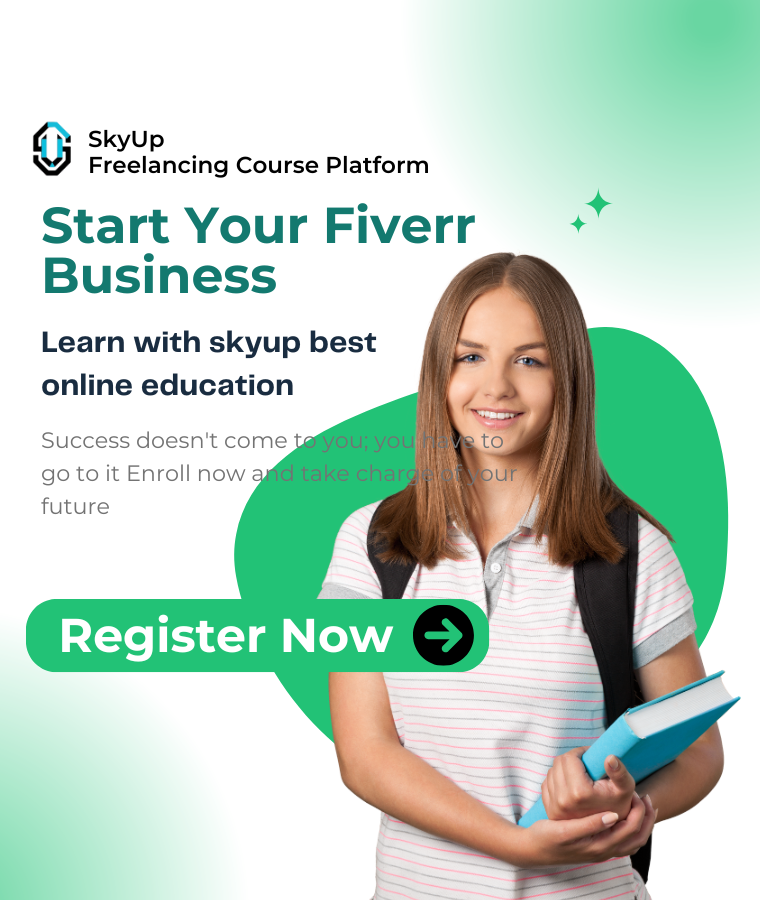
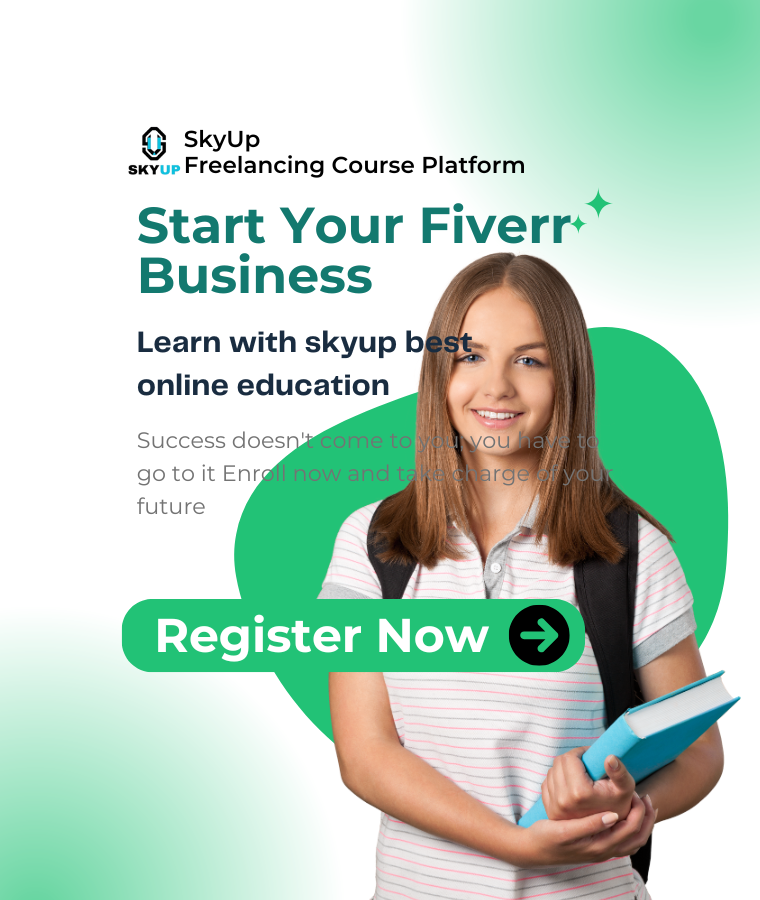
TEST5

Changed region(s): [[0.0, 0.6533, 0.7868, 1.0], [0.0303, 0.1244, 0.7566, 0.3422], [0.0605, 0.3733, 0.7868, 0.5911]]

diff --git a/public/index.html b/public/index.html
@@ -3,10 +3,10 @@
 
 <head>
   <meta charset="utf-8" />
-  <link rel="icon" href="%PUBLIC_URL%/favicon.ico" />
+  <link rel="icon" href="%PUBLIC_URL%/favicon.png" />
   <meta name="viewport" content="width=device-width, initial-scale=1" />
   <meta name="theme-color" content="#000000" />
-  <meta name="description" content="Web site created using create-react-app" />
+  <meta name="description" content="skyup ONLINE EDUCATION & LEARNING" />
   <link rel="stylesheet" href="https://cdnjs.cloudflare.com/ajax/libs/font-awesome/6.7.2/css/all.min.css"
     integrity="sha512-Evv84Mr4kqVGRNSgIGL/F/aIDqQb7xQ2vcrdIwxfjThSH8CSR7PBEakCr51Ck+w+/U6swU2Im1vVX0SVk9ABhg=="
     crossorigin="anonymous" referrerpolicy="no-referrer" />
@@ -25,7 +25,7 @@
       work correctly both with client-side routing and a non-root public URL.
       Learn how to configure a non-root public URL by running `npm run build`.
     -->
-  <title>React App</title>
+  <title>SKYUP</title>
 </head>
 
 <body>

diff --git a/src/component/home/testimonal/style.css b/src/component/home/testimonal/style.css
@@ -68,3 +68,28 @@
   background-color: #fff;
   color: #22c276;
 }
+
+@media screen and (max-width:768px) {
+  .testimonal {
+
+    padding-top: 20px;
+
+  }
+
+  .testimonal h1 {
+    padding-left: 0;
+
+  }
+
+
+  .testimonal .grid2 {
+    display: flex;
+    flex-wrap: wrap;
+  }
+
+  .testimonal {
+    height: auto;
+    margin-top: 10px;
+    /* background-color: #dffcfa; */
+  }
+}

diff --git a/src/App.css b/src/App.css
@@ -101,7 +101,7 @@ button :hover {
 
   box-shadow: none;
   border: 2px solid #43c174;
-  width: 40%;
+  width: 43%;
   height: 8vh;
   margin-left: 25%;
   transition: 0.5s;
@@ -248,3 +248,5 @@ button :hover {
   color: #ffffff;
   border-radius: 10px;
 }
+
+/*---------TESTIMONAL---------*/
